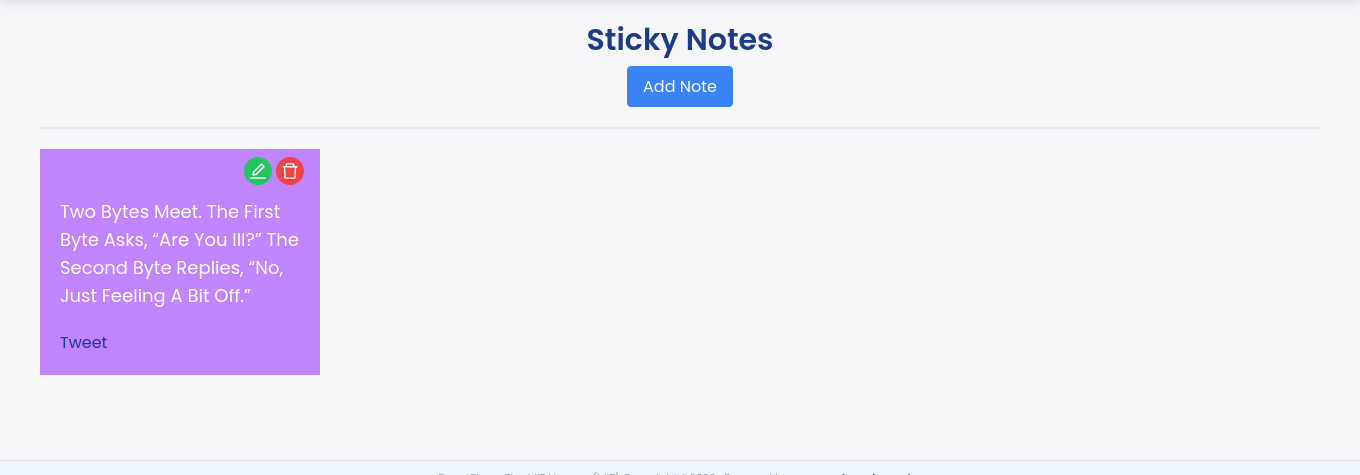
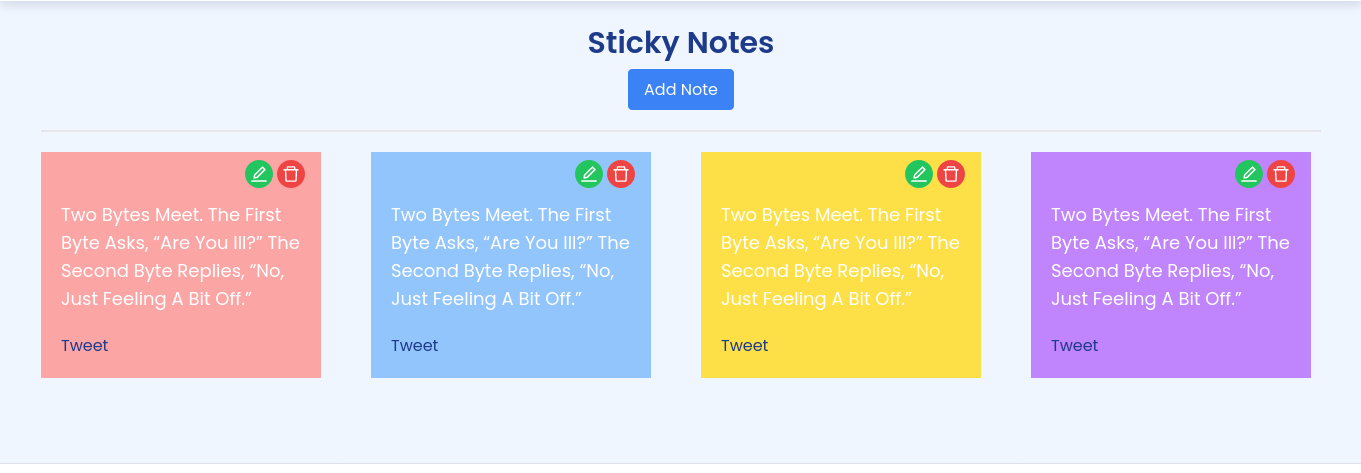
fixed the bugs and added preview img

diff --git a/src/plays/sticky-notes/StickyNotes.js b/src/plays/sticky-notes/StickyNotes.js
@@ -8,7 +8,7 @@ function StickyNotes(props) {
 
   return (
     <>
-      <div className="play-details">
+      <div className="play-details stickyNotes-body ">
         <PlayHeader play={props} />
         <div className="play-details-body">
           {/* Your Code Starts Here */}

diff --git a/src/plays/sticky-notes/styles.css b/src/plays/sticky-notes/styles.css
@@ -1,5 +1,5 @@
 /* enter stlyes here */
-body {
+.stickyNotes-body {
     @apply bg-blue-50;
     font-family: "Poppins", sans-serif;
   }
